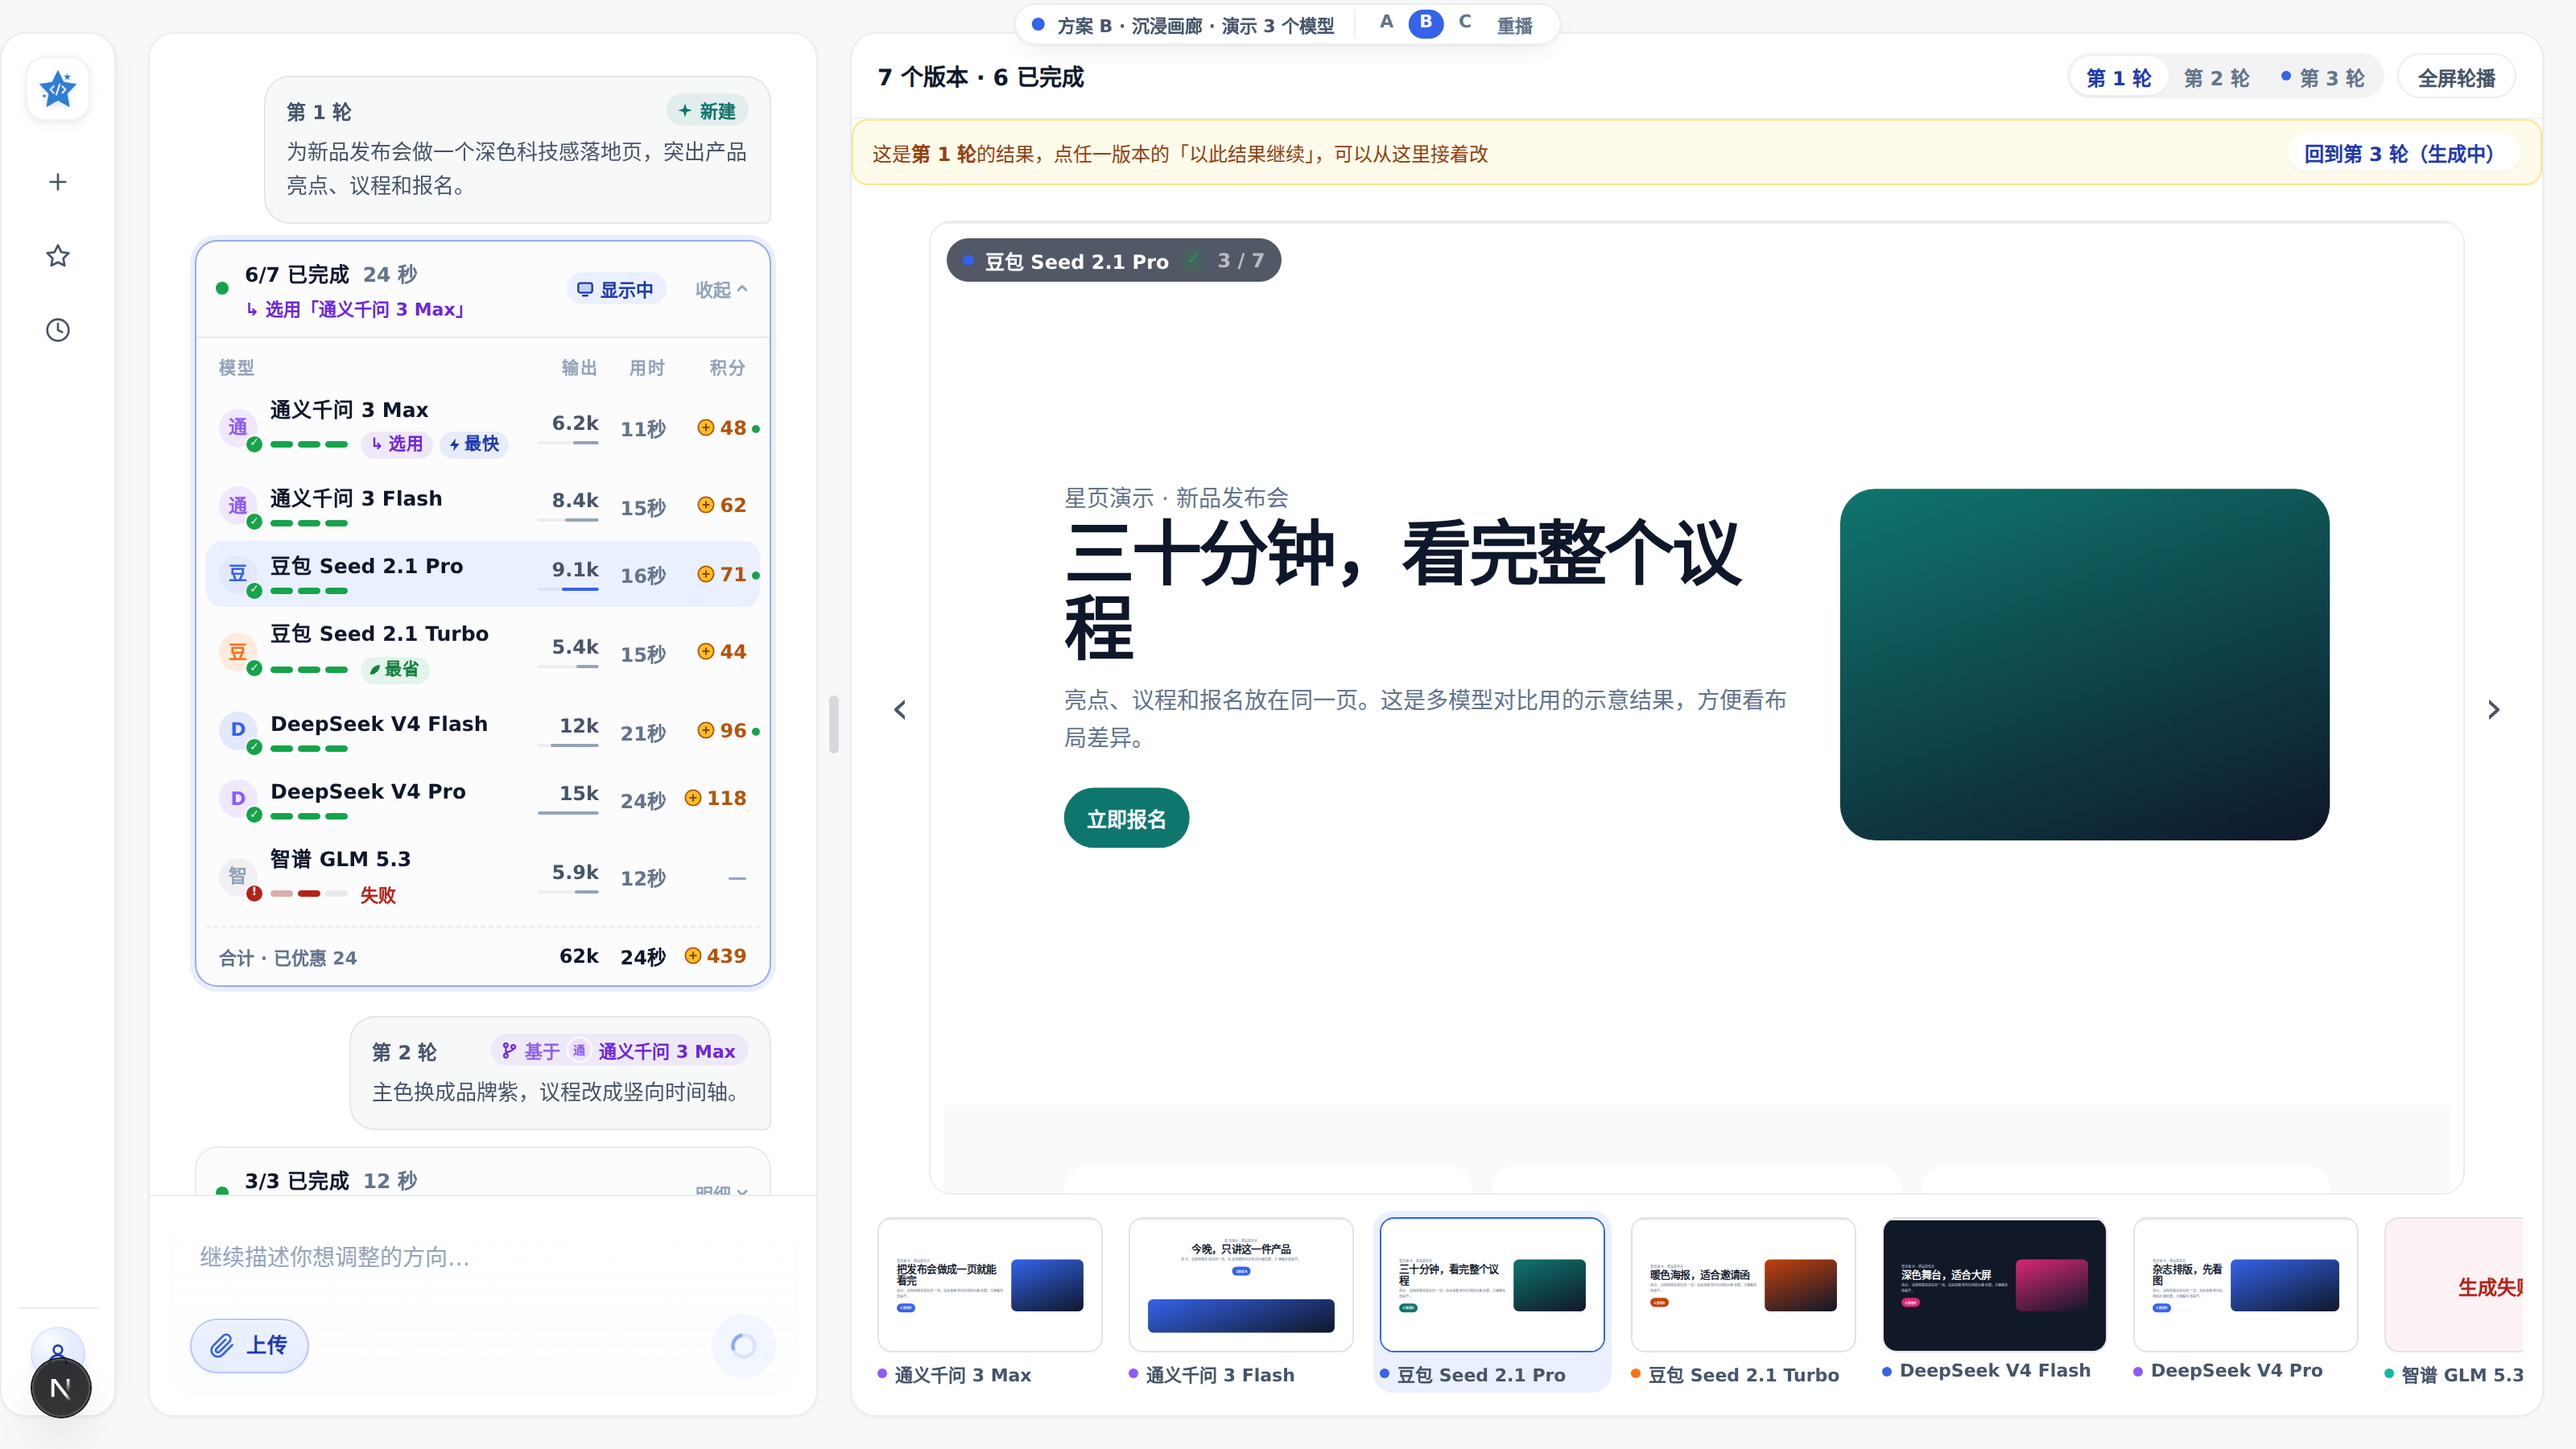
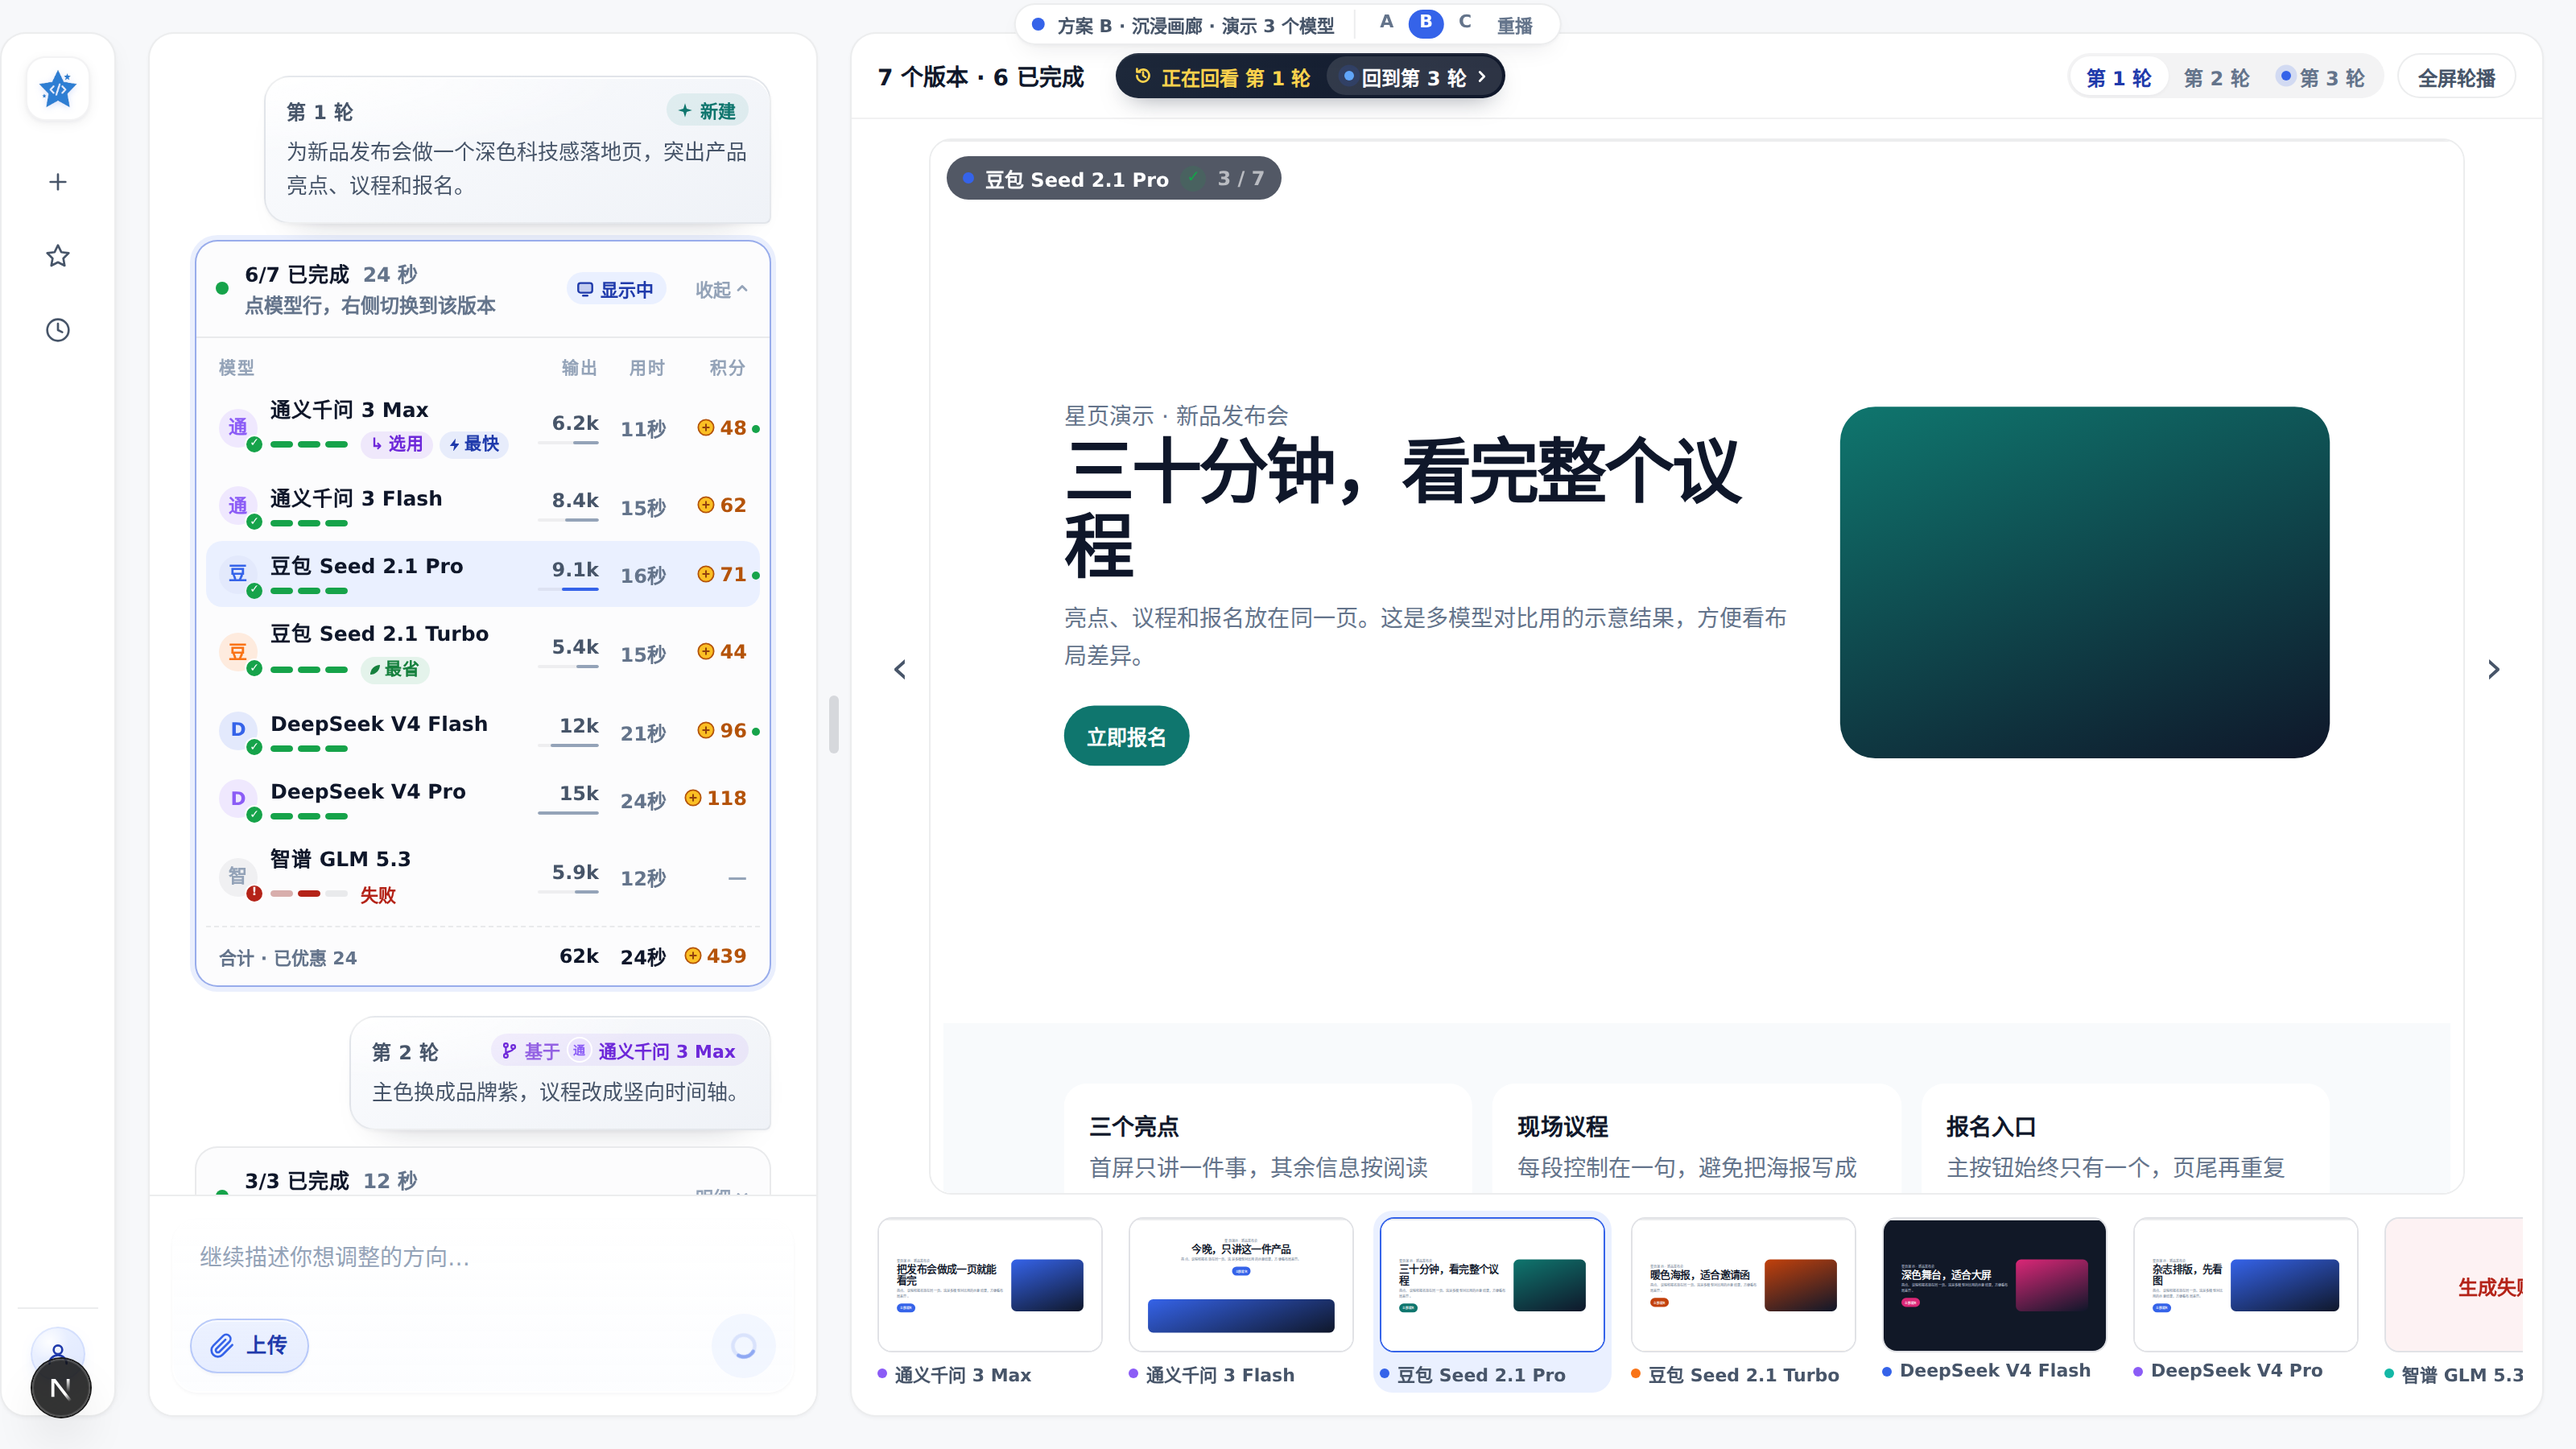
ux(B): 多轮卡片统一两行高度、用户气泡加质感、回看提示改为标题胶囊

diff --git a/code/frontend/app/components/workspace/variants.css b/code/frontend/app/components/workspace/variants.css
@@ -540,10 +540,30 @@ body.is-resizing-panes iframe {
   gap: 8px;
 }
 
-.chat-round.is-past .user-message {
-  background: rgba(15, 23, 42, 0.03);
-  box-shadow: none;
+/* 用户气泡：左上角一层柔光 + 斜向渐变 + 顶部内高光，做出纸张般的层次；当前轮偏蓝，历史轮偏冷灰 */
+.layout-b .user-message {
+  border: 1px solid rgba(53, 99, 233, 0.16);
+  background:
+    radial-gradient(120% 90% at 0% 0%, rgba(255, 255, 255, 0.9) 0%, rgba(255, 255, 255, 0) 55%),
+    linear-gradient(155deg, #f4f7ff 0%, #e6edff 100%);
+  box-shadow:
+    inset 0 1px 0 rgba(255, 255, 255, 0.95),
+    0 1px 2px rgba(53, 99, 233, 0.06),
+    0 12px 26px -20px rgba(53, 99, 233, 0.6);
 }
+
+.layout-b .chat-round.is-past .user-message {
+  border-color: rgba(15, 23, 42, 0.07);
+  background:
+    radial-gradient(120% 90% at 0% 0%, #fff 0%, rgba(255, 255, 255, 0) 60%),
+    linear-gradient(155deg, #fbfcfe 0%, #eff2f7 100%);
+  box-shadow:
+    inset 0 1px 0 #fff,
+    0 1px 2px rgba(15, 23, 42, 0.04),
+    0 12px 24px -20px rgba(15, 23, 42, 0.4);
+}
+
+.layout-b .user-message-meta > span:first-child { letter-spacing: 0.02em; }
 
 .chat-round.is-past .user-message-meta > span:first-child { color: var(--color-text-secondary); }
 
@@ -564,24 +584,37 @@ body.is-resizing-panes iframe {
   box-shadow: 0 0 0 3px color-mix(in srgb, var(--color-primary) 10%, transparent);
 }
 
-.vb-pill-text > span {
+/* 卡片统一两行：标题 + 一行摘要（「选用」也收进这一行），所以每张卡高度一致 */
+.vb-pill-sub {
+  display: block;
+  height: 18px;
   overflow: hidden;
+  line-height: 18px;
   text-overflow: ellipsis;
   white-space: nowrap;
 }
 
-.vb-pill-picked {
-  overflow: hidden;
-  margin-top: 2px;
+.vb-pill-hint { color: var(--color-text-muted); font-weight: 600; }
+
+.vb-pill-text .vb-pill-picked {
+  display: inline-flex;
+  flex-shrink: 0;
+  align-items: center;
+  gap: 3px;
+  height: 18px;
+  margin-left: 8px;
+  padding: 0 7px 0 2px;
+  vertical-align: top;
+  border-radius: 999px;
+  background: rgba(124, 58, 237, 0.09);
   color: #6d28d9;
   font-size: 11px;
-  font-weight: 700;
-  text-overflow: ellipsis;
-  white-space: nowrap;
+  font-weight: 750;
 }
 
-.vb-pill-picked::before {
-  content: "↳ ";
+.vb-pill-text .vb-pill-picked .round-source-avatar {
+  border-color: rgba(255, 255, 255, 0.9);
+  color: var(--accent);
 }
 
 /* 多轮时整张卡可点：点哪轮右侧就显示哪轮；显示中的那张挂「显示中」，其余悬停时浮出「查看」 */
@@ -1174,34 +1207,81 @@ body.is-resizing-panes iframe {
   animation: dot-breathe 1.5s ease-in-out infinite;
 }
 
-.vb-round-banner {
-  display: flex;
+/* 回看模式胶囊：深色底让"现在不是最新"一眼可辨，右半是回到最新的按钮 */
+.vb-past-chip {
+  display: inline-flex;
+  flex-shrink: 0;
   align-items: center;
-  gap: 12px;
-  margin-bottom: 10px;
-  padding: 8px 12px;
-  border: 1px solid #fde68a;
-  border-radius: 10px;
-  background: #fffbeb;
-  color: #92400e;
+  gap: 2px;
+  margin-left: 12px;
+  padding: 2px;
+  border-radius: 999px;
+  background: linear-gradient(135deg, #1e293b 0%, #0f172a 100%);
+  box-shadow:
+    inset 0 1px 0 rgba(255, 255, 255, 0.08),
+    0 6px 16px -8px rgba(15, 23, 42, 0.55);
   font-size: 12px;
-  animation: vb-mini-in 0.2s ease;
+  font-weight: 700;
+  animation: vb-chip-in 0.24s cubic-bezier(0.2, 0.8, 0.2, 1);
 }
 
-.vb-round-banner b { font-weight: 800; }
+@keyframes vb-chip-in {
+  from { opacity: 0; transform: translateY(-3px) scale(0.96); }
+  to { opacity: 1; transform: none; }
+}
 
-.vb-round-banner button {
-  flex-shrink: 0;
-  margin-left: auto;
-  padding: 3px 10px;
+.vb-past-chip-label {
+  display: inline-flex;
+  align-items: center;
+  gap: 5px;
+  padding: 0 8px 0 9px;
+  color: #fcd34d;
+  white-space: nowrap;
+}
+
+.vb-past-chip svg {
+  fill: none;
+  stroke: currentColor;
+  stroke-linecap: round;
+  stroke-linejoin: round;
+}
+
+.vb-past-chip-label svg { width: 12px; height: 12px; stroke-width: 1.3; }
+
+.vb-past-chip button {
+  display: inline-flex;
+  align-items: center;
+  gap: 5px;
+  height: 24px;
+  padding: 0 8px 0 11px;
   border: 0;
   border-radius: 999px;
-  background: #fff;
-  color: var(--color-primary-active);
+  background: rgba(255, 255, 255, 0.12);
+  color: #fff;
   font: inherit;
-  font-weight: 750;
+  white-space: nowrap;
   cursor: pointer;
-  box-shadow: var(--shadow-sm);
+  transition: background 0.15s ease;
+}
+
+.vb-past-chip button:hover { background: rgba(255, 255, 255, 0.22); }
+
+.vb-past-chip button svg {
+  width: 9px;
+  height: 9px;
+  stroke-width: 1.6;
+  transition: transform 0.15s ease;
+}
+
+.vb-past-chip button:hover svg { transform: translateX(2px); }
+
+.vb-past-chip button i {
+  width: 6px;
+  height: 6px;
+  border-radius: 50%;
+  background: #60a5fa;
+  box-shadow: 0 0 0 3px rgba(96, 165, 250, 0.25);
+  animation: dot-breathe 1.5s ease-in-out infinite;
 }
 
 .vb-carousel-btn,
@@ -1756,6 +1836,8 @@ body.is-resizing-panes iframe {
   .vb-pip.is-live span,
   .vb-avatar::before,
   .vb-rounds i,
+  .vb-past-chip,
+  .vb-past-chip button i,
   .vb-mini { animation: none; }
   .va-total span,
   .va-bar span,

diff --git a/code/frontend/app/components/workspace/variant-b.tsx b/code/frontend/app/components/workspace/variant-b.tsx
@@ -8,7 +8,7 @@ import {
   type KeyboardEvent as ReactKeyboardEvent,
   type PointerEvent as ReactPointerEvent,
 } from "react";
-import { Ring, StatusMark } from "./bits";
+import { MiniAvatar, Ring, StatusMark } from "./bits";
 import { useArrowModelNav, useWorkspace } from "./context";
 import {
   batchElapsed,
@@ -82,6 +82,15 @@ export function VariantBProgress({ history }: { history?: PastRoundProps } = {})
           {credits.charged}
         </>
       )}
+      {picked && (
+        <b
+          className="vb-pill-picked"
+          title={`选用「${picked.modelLabel}」${history?.nextLabel ? `，${history.nextLabel}基于它继续修改` : ""}`}
+        >
+          <MiniAvatar modelKey={picked.modelKey} label={picked.modelLabel} />
+          选用
+        </b>
+      )}
     </>
   );
   // 多轮时点卡片＝在右侧显示这一轮；单轮时点卡片＝展开明细。
@@ -120,12 +129,7 @@ export function VariantBProgress({ history }: { history?: PastRoundProps } = {})
               {title}
               {clockText && <em>{clockText}</em>}
             </strong>
-            {!open && <span>{sub}</span>}
-            {picked && (
-              <b className="vb-pill-picked" title={history?.nextLabel ? `${history.nextLabel}基于它继续修改` : undefined}>
-                选用「{picked.modelLabel}」
-              </b>
-            )}
+            <span className="vb-pill-sub">{open ? <span className="vb-pill-hint">点模型行，右侧切换到该版本</span> : sub}</span>
           </span>
           {view && (
             <span className={`vb-showing ${view.viewing ? "" : "is-hint"}`} aria-hidden={!view.viewing}>
@@ -361,20 +365,29 @@ function RoundTabs() {
   );
 }
 
-function PastRoundBanner() {
+/** 回看旧轮时挂在标题里的胶囊：左半说明在看哪一轮，右半一键回到最新。 */
+function PastRoundChip() {
   const { roundNav } = useWorkspace();
   if (!roundNav) return null;
   const latest = roundNav.items.length - 1;
   if (roundNav.viewing >= latest) return null;
+  const live = roundNav.items[latest]?.live;
   return (
-    <div className="vb-round-banner">
-      <span>
-        这是<b>第 {roundNav.viewing + 1} 轮</b>的结果，点任一版本的「以此结果继续」，可以从这里接着改
+    <span className="vb-past-chip" title="可以在任一版本上点「以此结果继续」，从这一轮接着改">
+      <span className="vb-past-chip-label">
+        <svg viewBox="0 0 12 12" aria-hidden="true">
+          <path d="M2.2 6a3.8 3.8 0 1 0 1.1-2.7M2.2 1.8v1.9h1.9M6 3.8V6l1.5 1" />
+        </svg>
+        正在回看 第 {roundNav.viewing + 1} 轮
       </span>
       <button type="button" onClick={() => roundNav.onView(latest)}>
-        回到第 {latest + 1} 轮{roundNav.items[latest]?.live ? "（生成中）" : ""}
+        {live && <i aria-label="生成中" />}
+        回到第 {latest + 1} 轮
+        <svg viewBox="0 0 10 10" aria-hidden="true">
+          <path d="M3.5 2 6.5 5l-3 3" />
+        </svg>
       </button>
-    </div>
+    </span>
   );
 }
 
@@ -412,6 +425,7 @@ export function VariantBResults() {
           {roundNav && roundNav.items.length > 1 ? "" : "结果预览 · "}
           {runs.length} 个版本 · {done} 已完成
         </h2>
+        <PastRoundChip />
         <div className="vb-heading-tools">
           <RoundTabs />
           {many && (
@@ -421,7 +435,6 @@ export function VariantBResults() {
           )}
         </div>
       </div>
-      <PastRoundBanner />
       {!many && (
         <div className="preview-grid" style={{ gridTemplateColumns: `repeat(${Math.max(runs.length, 1)}, minmax(0, 1fr))` }}>
           {runs.map((run) => (

diff --git a/code/frontend/app/components/workspace/bits.tsx b/code/frontend/app/components/workspace/bits.tsx
@@ -28,7 +28,7 @@ export function StatusMark({ status }: { status: WorkspaceRun["status"] }) {
   return <span className="vp-mark is-run" />;
 }
 
-function MiniAvatar({ modelKey, label }: { modelKey: string; label: string }) {
+export function MiniAvatar({ modelKey, label }: { modelKey: string; label: string }) {
   return (
     <span className="round-source-avatar" style={{ "--accent": modelAccent(modelKey) } as CSSProperties} title={label}>
       {modelGlyph(label)}

diff --git a/doc/20261109/generation-progress-compare-variants.md b/doc/20261109/generation-progress-compare-variants.md
@@ -57,6 +57,11 @@
     - 从右侧标签切换轮次时，左侧对应的卡会自动滚到可见位置。
     - 气泡右上角的来源改成带图标的小标签：「新建」（绿色、星形图标）；「基于 + 模型头像 + 模型名」（紫色、分支图标，与上一轮的「选用」同色，表示同一条修改线）；「各自续改」（蓝色、并行箭头图标，叠放本轮各模型的小头像）。
     - 截图：`b-multi-live-pane.png`、`b-multi-view-r1-pane.png`。
+  - 第三次调整：
+    - 进度卡统一为两行：标题一行，摘要一行，所以每张卡高度一致。「选用」收进摘要行末尾，变成「模型小头像 + 选用」的紫色小标签，悬停可看全名。展开明细时摘要行换成操作提示，标题高度不跳。
+    - 用户气泡加了质感：左上角一层柔光，叠一层斜向渐变，再加顶部内高光和柔和投影。当前轮偏蓝，历史轮偏冷灰。
+    - 去掉结果区顶部的黄色提示条，改成标题旁的深色胶囊。左半是琥珀色的「正在回看 第 1 轮」，右半是「回到第 3 轮 ›」按钮，最新一轮还在生成时带呼吸点。原来的说明文字放进悬停提示。
+    - 截图：`b-multi-heading.png`（标题胶囊）。
   - 截图：`images/20261109/gen-ui-variants/b-multi-live.png`（第 3 轮生成中）、`b-multi-view-r1.png`（回看第 1 轮）、`b-multi-r1-detail.png`（第 1 轮明细联动）、`b-multi-tab-r2.png`（右侧切到第 2 轮）、`b-multi-done.png`（第 3 轮完成）。
 
 ## 状态与后续
